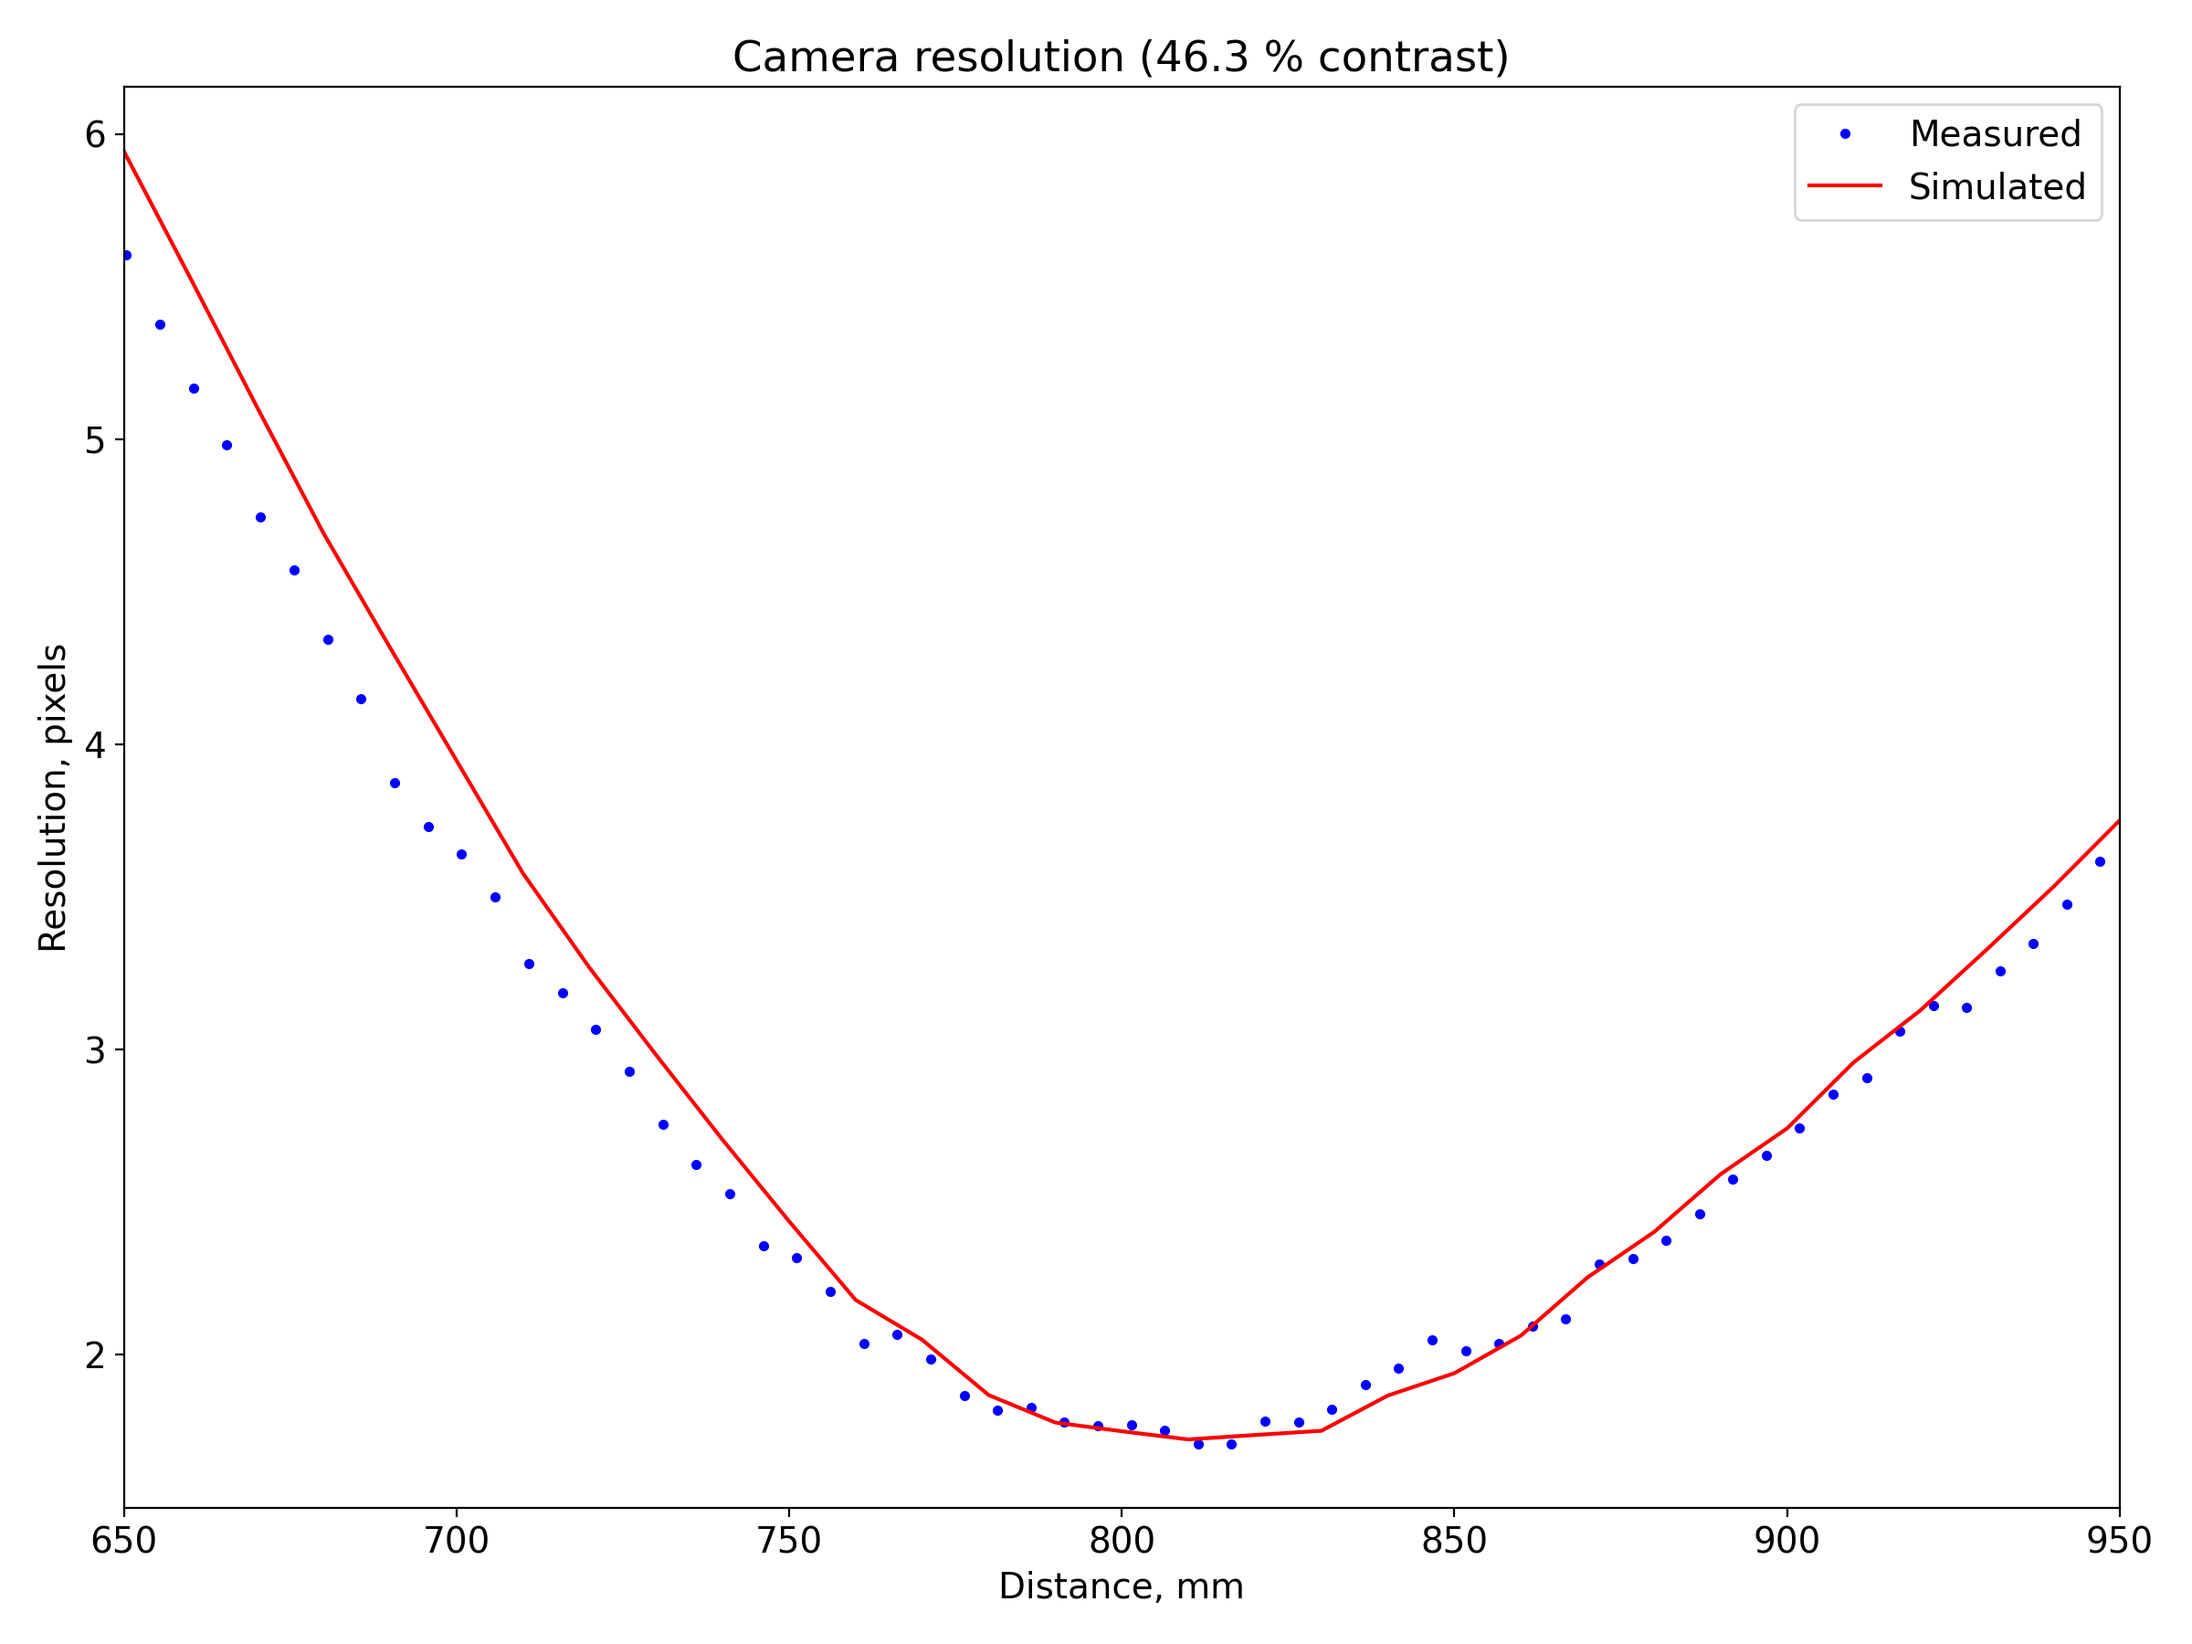
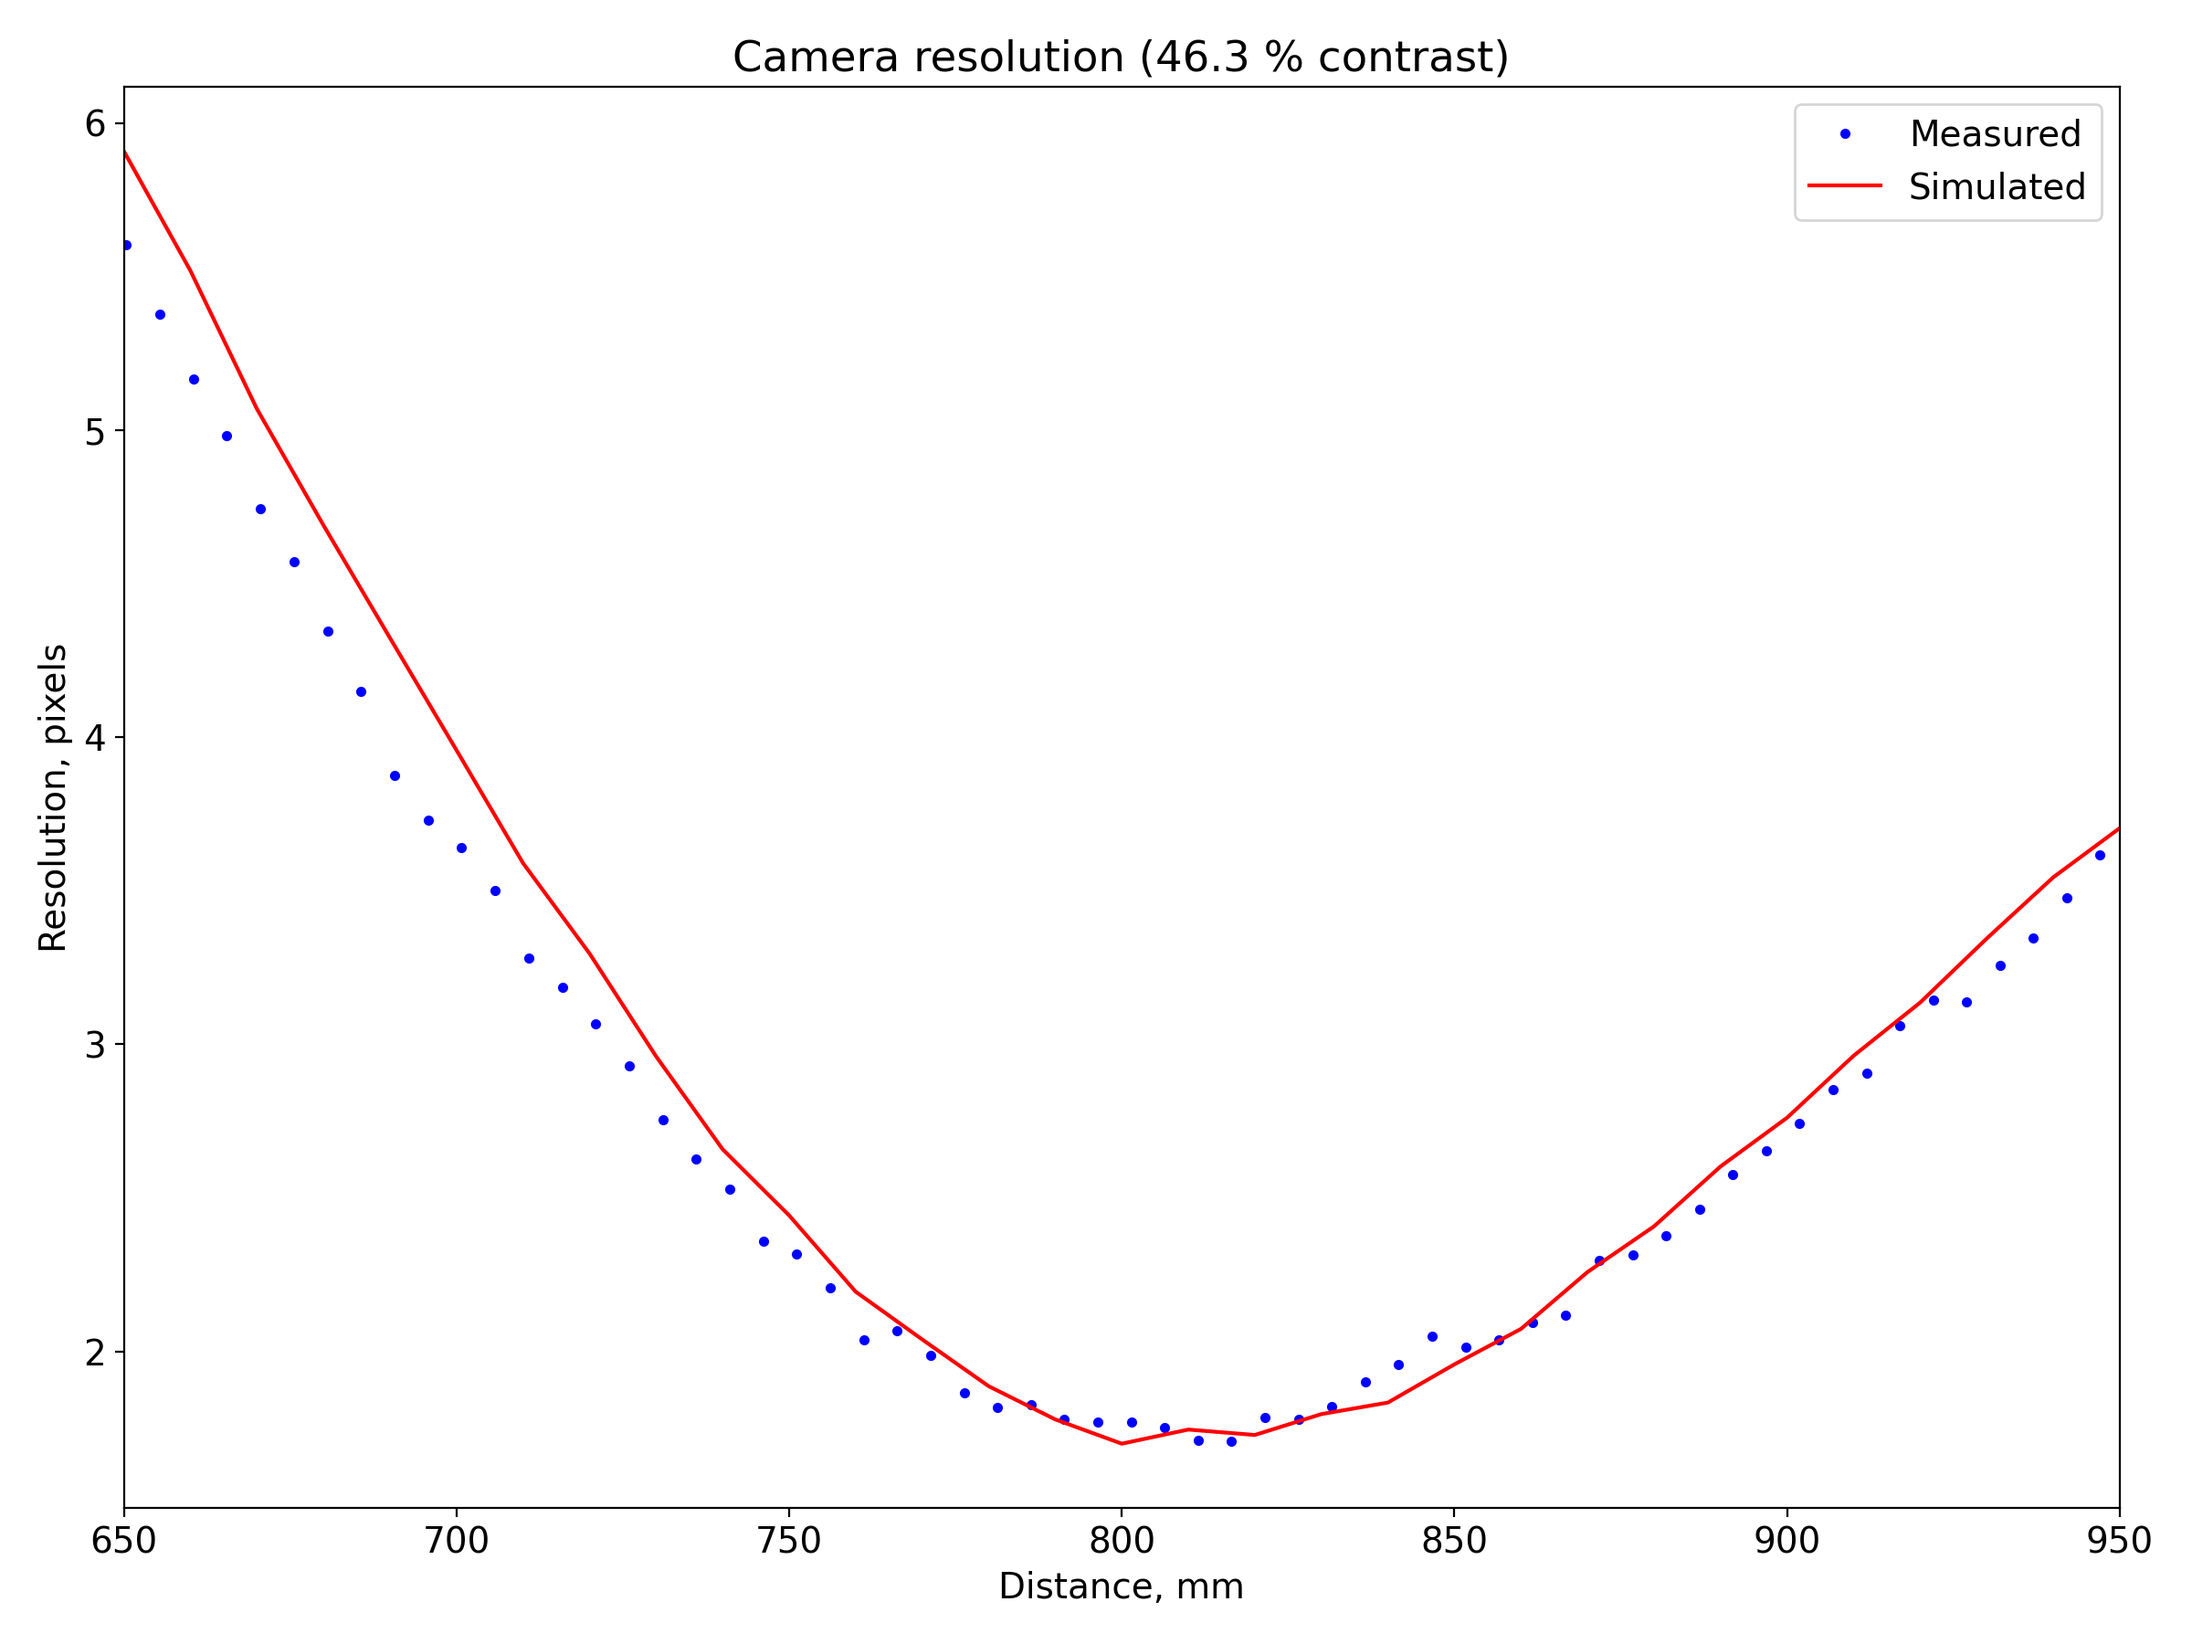
Improve the projector defocus (extra_dof)

diff --git a/simulator/validation/projector_focus.py b/simulator/validation/projector_focus.py
@@ -9,13 +9,13 @@ valid_path = "../../data/validation/projector_focus/"
 
 def simulate_projector_focus(data_path, mitsuba_path, range_cm=(61, 94), scale=0.05, ideal_camera=False, verbose=True, **kw):
     config, cam_geom = {}, load_calibration(calib_path + "camera_geometry.json")
-    # Render small crop (100 pixels high) only for optimal performance
-    w, h = 100, 100
+    # Render small crop (120 pixels high) only for optimal performance
+    w, h = 120, 120
     cam_geom["image_width, pixels"] = w
     cam_geom["image_height, pixels"] = h
     cam_geom["new_mtx"][:2, 2] = (w-1)/2, (h-1)/2
 
-    configure_camera_geometry(config, cam_geom)
+    configure_camera_geometry(config, cam_geom, **kw)
     configure_camera_focus(config, calib_path + "camera_focus.json", **kw)
 
     configure_projector_geometry(config, calib_path + "projector_geometry.json", **kw)
@@ -136,7 +136,7 @@ if __name__ == "__main__":
     data_path = mitsuba_path + "/scenes"
     ensure_exists(data_path)
 
-    # simulate_projector_focus(data_path + "/projector_focus", mitsuba_path, ideal_camera=False)
+    simulate_projector_focus(data_path + "/projector_focus", mitsuba_path, ideal_camera=False, cam_samples=1024)
 
     analyze_projector_focus(data_path + "/projector_focus", reference=calib_path + "projector_focus.json")
 

diff --git a/simulator/rendering/configuration.py b/simulator/rendering/configuration.py
@@ -142,7 +142,7 @@ def configure_projector_geometry(config, proj_geom, brightness=10.0, pixel_gap=0
     config["pro_transform"] = transform2string(transform)
 
 
-def configure_projector_focus(config, proj_focus, diff_limit=None, **kw):
+def configure_projector_focus(config, proj_focus, extra_dof=0.025, diff_limit=None, **kw):
     if type(proj_focus) is str:
         proj_focus = load_calibration(proj_focus)
     assert type(proj_focus) is dict
@@ -157,6 +157,9 @@ def configure_projector_focus(config, proj_focus, diff_limit=None, **kw):
         # Camera focus must be already configured prior to automatic diff_limit estimation for the projector
         diff_limit = config["cam_diff_limit"] * config["cam_aperture_radius"] / config["pro_aperture_radius"]
 
+    # ExtraDOF in the projector model improves Depth of Field observed with RGB projector
+    # when using Monochrome camera (due to the chromatic aberrations that split focal plane into three)
+    config["pro_extra_dof"] = extra_dof
     config["pro_diff_limit"] = diff_limit
 
 

diff --git a/simulator/rendering/rendering.py b/simulator/rendering/rendering.py
@@ -15,12 +15,13 @@ def write_scene_file(config, scene_filename, template_filename, warn_missing_con
             if warn_missing_config:
                 print("Configuration value missing: %s. Using default: %s"%(n, e.get("value")))
     #print(len(template.findall("default")))
-    # Object material settings need to be filled in directly
-    om = template.xpath("shape")
-    assert len(om) == 1
-    # print(om, dir(om), config["obj_material"])
-    om[0].insert(3, config["obj_material"])
-    ET.indent(om[0], space="    ", level=1)
+    # Object material settings need to be filled in directly (if present)
+    if "obj_material" in config:
+        om = template.xpath("shape")
+        assert len(om) == 1
+        # print(om, dir(om), config["obj_material"])
+        om[0].insert(3, config["obj_material"])
+        ET.indent(om[0], space="    ", level=1)
     # ET.dump(template)
     template.write(scene_filename)
     

diff --git a/simulator/validation/camera_focus.py b/simulator/validation/camera_focus.py
@@ -15,7 +15,7 @@ def simulate_camera_focus(data_path, mitsuba_path, range_cm=(65, 96), verbose=Tr
     cam_geom["image_height, pixels"] = h
     cam_geom["new_mtx"][:2, 2] = (w-1)/2, (h-1)/2
 
-    configure_camera_geometry(config, cam_geom)
+    configure_camera_geometry(config, cam_geom, **kw)
     configure_camera_focus(config, calib_path + "camera_focus.json", **kw)
 
     if verbose:

diff --git a/utils/utils.py b/utils/utils.py
@@ -17,7 +17,7 @@ import open3d as o3d
 import imageio
 
 import matplotlib
-
+matplotlib.use('TkAgg')
 # font = {'family': 'serif', 'weight': 'normal', 'size': 32}
 font = {'weight': 'normal', 'size': 14}
 matplotlib.rc('font', **font)

diff --git a/simulator/validation/accuracy_test.py b/simulator/validation/accuracy_test.py
@@ -3,9 +3,6 @@ from rendering import *
 from display import *
 from cv2 import aruco
 
-import matplotlib
-matplotlib.use('TkAgg')
-
 calib_path = "../../data/calibrations/"
 valid_path = "../../data/validation/accuracy_test/"
 

diff --git a/simulator/validation/teaser_figure.py b/simulator/validation/teaser_figure.py
@@ -3,8 +3,6 @@ from rendering import *
 from display import *
 # from process import *
 
-import matplotlib
-matplotlib.use('TkAgg')
 font = {'family': 'serif', 'weight': 'normal', 'size': 32}
 matplotlib.rc('font', **font)
 

diff --git a/simulator/validation/projector_calibration.py b/simulator/validation/projector_calibration.py
@@ -1,9 +1,6 @@
 from display import *
 from utils import *
 
-import matplotlib
-matplotlib.use('TkAgg')
-
 
 if __name__ == "__main__":
     H, W = 1080, 1920
